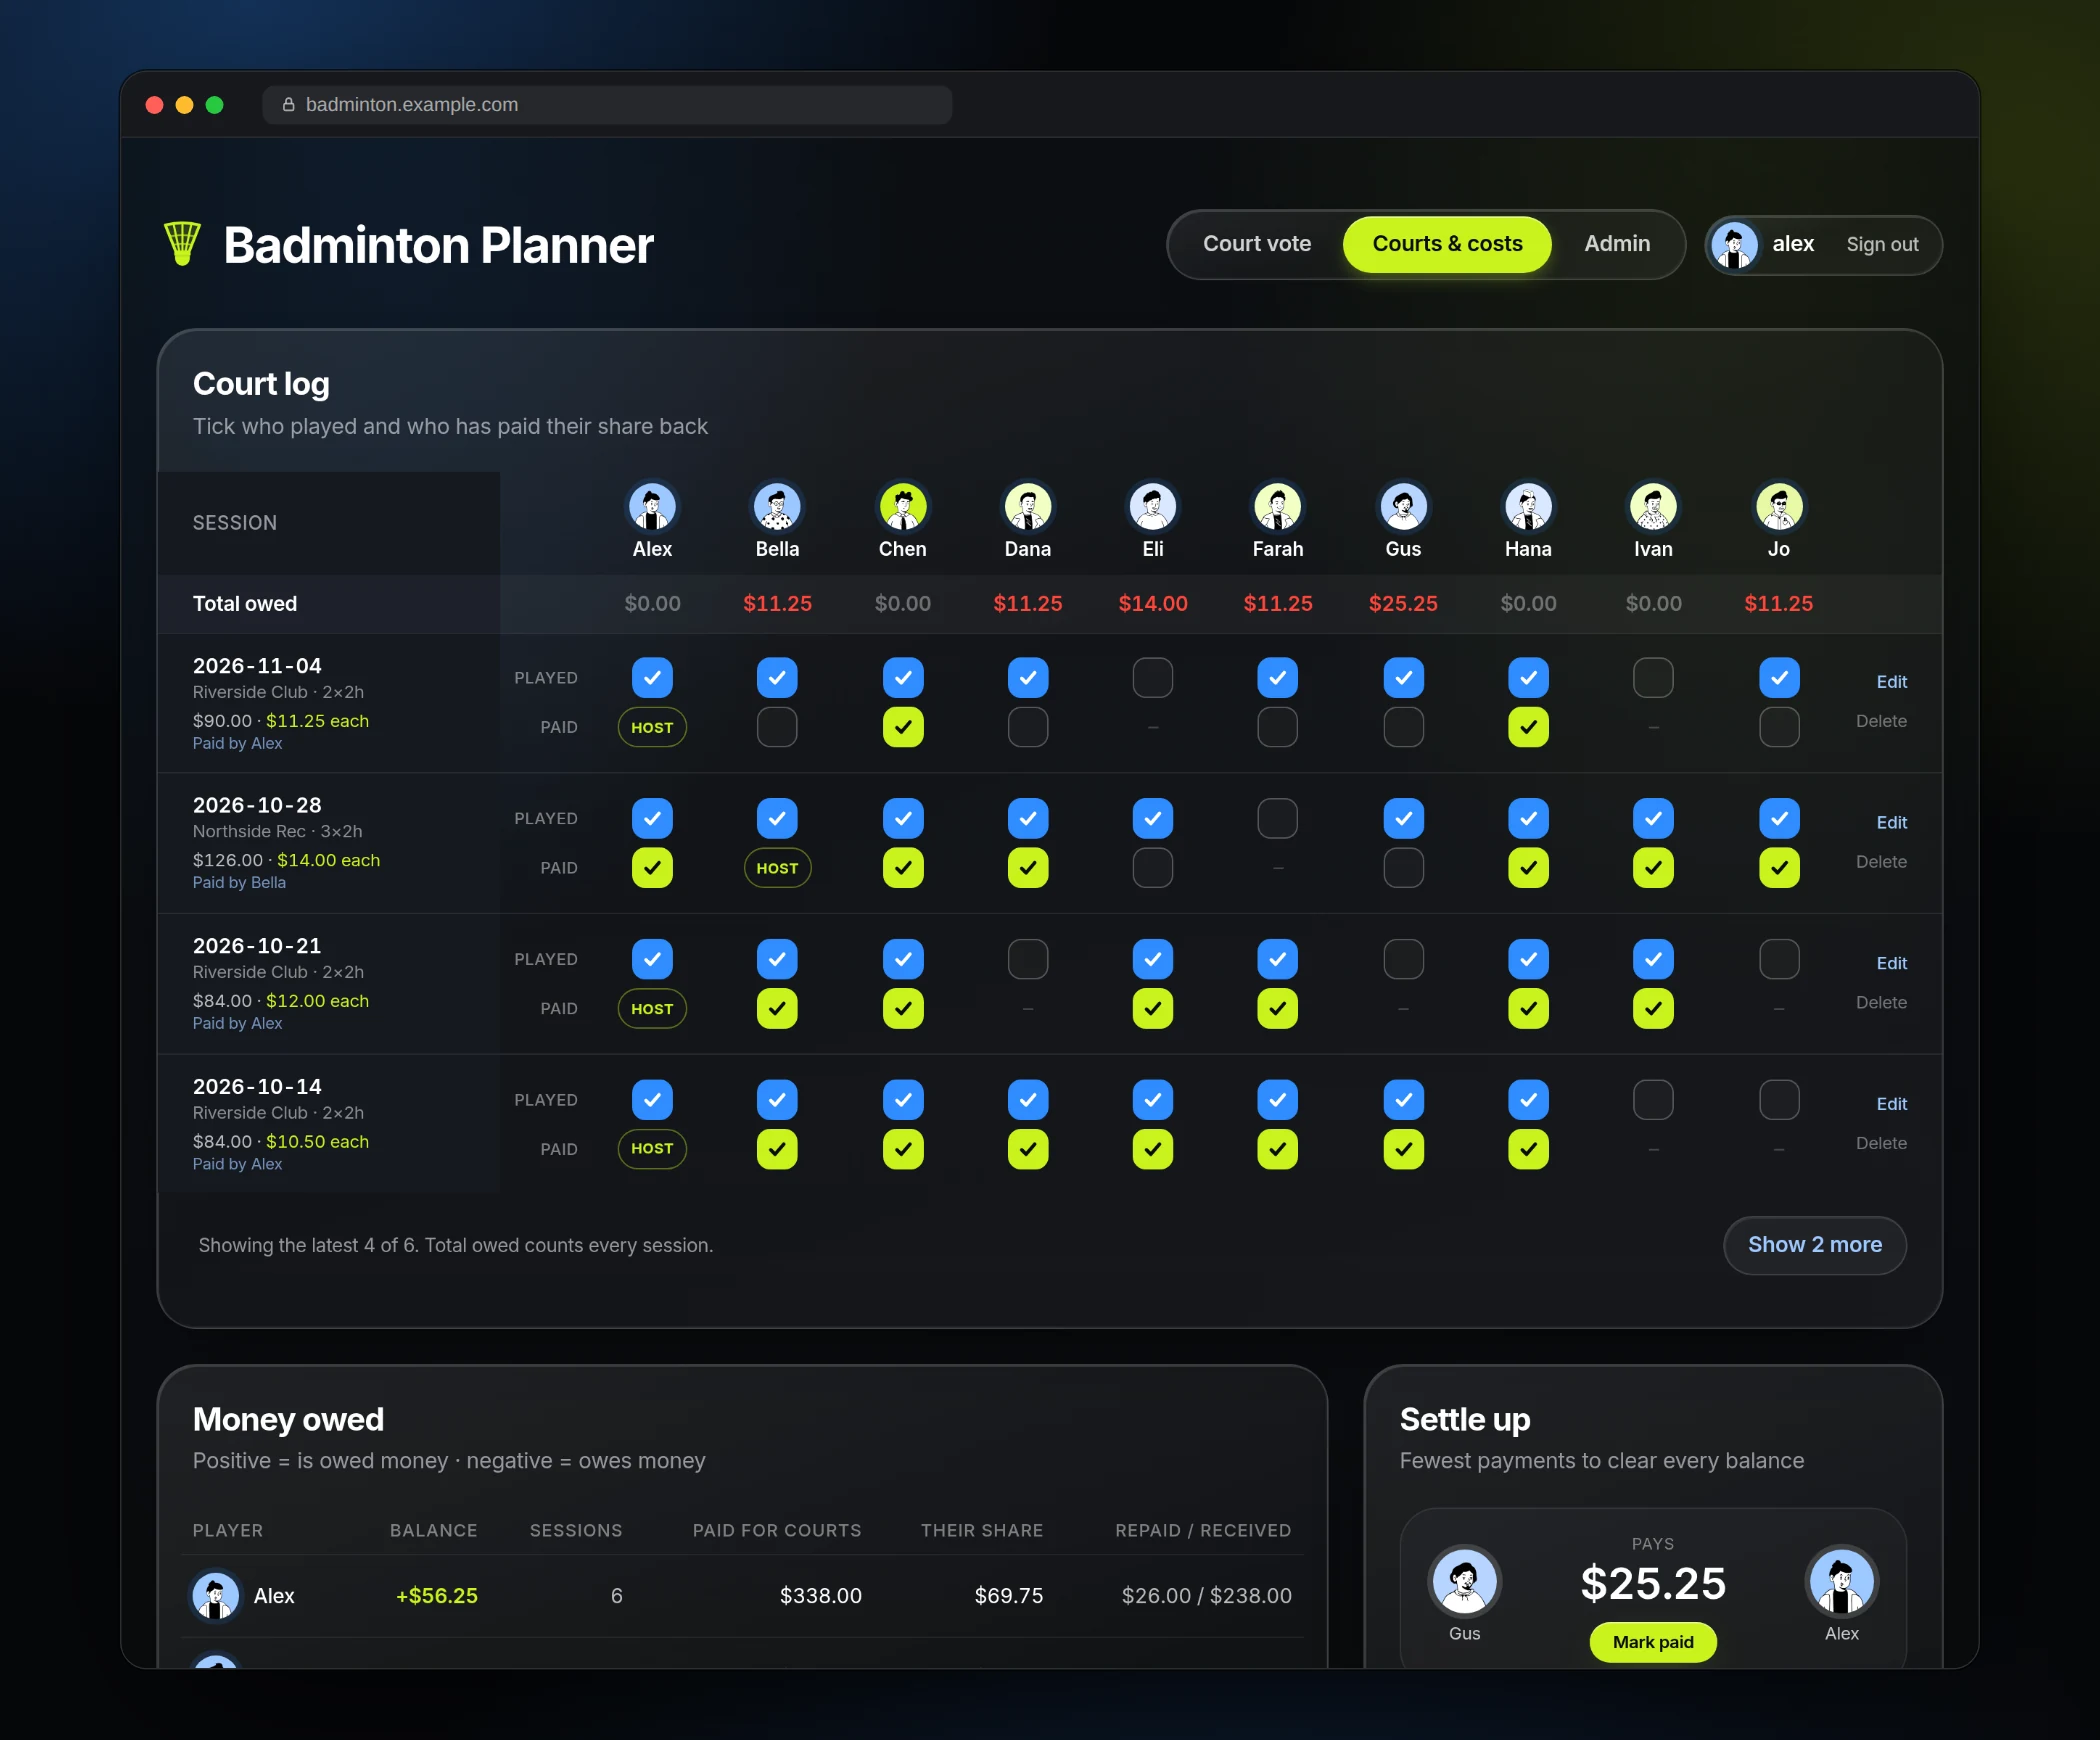
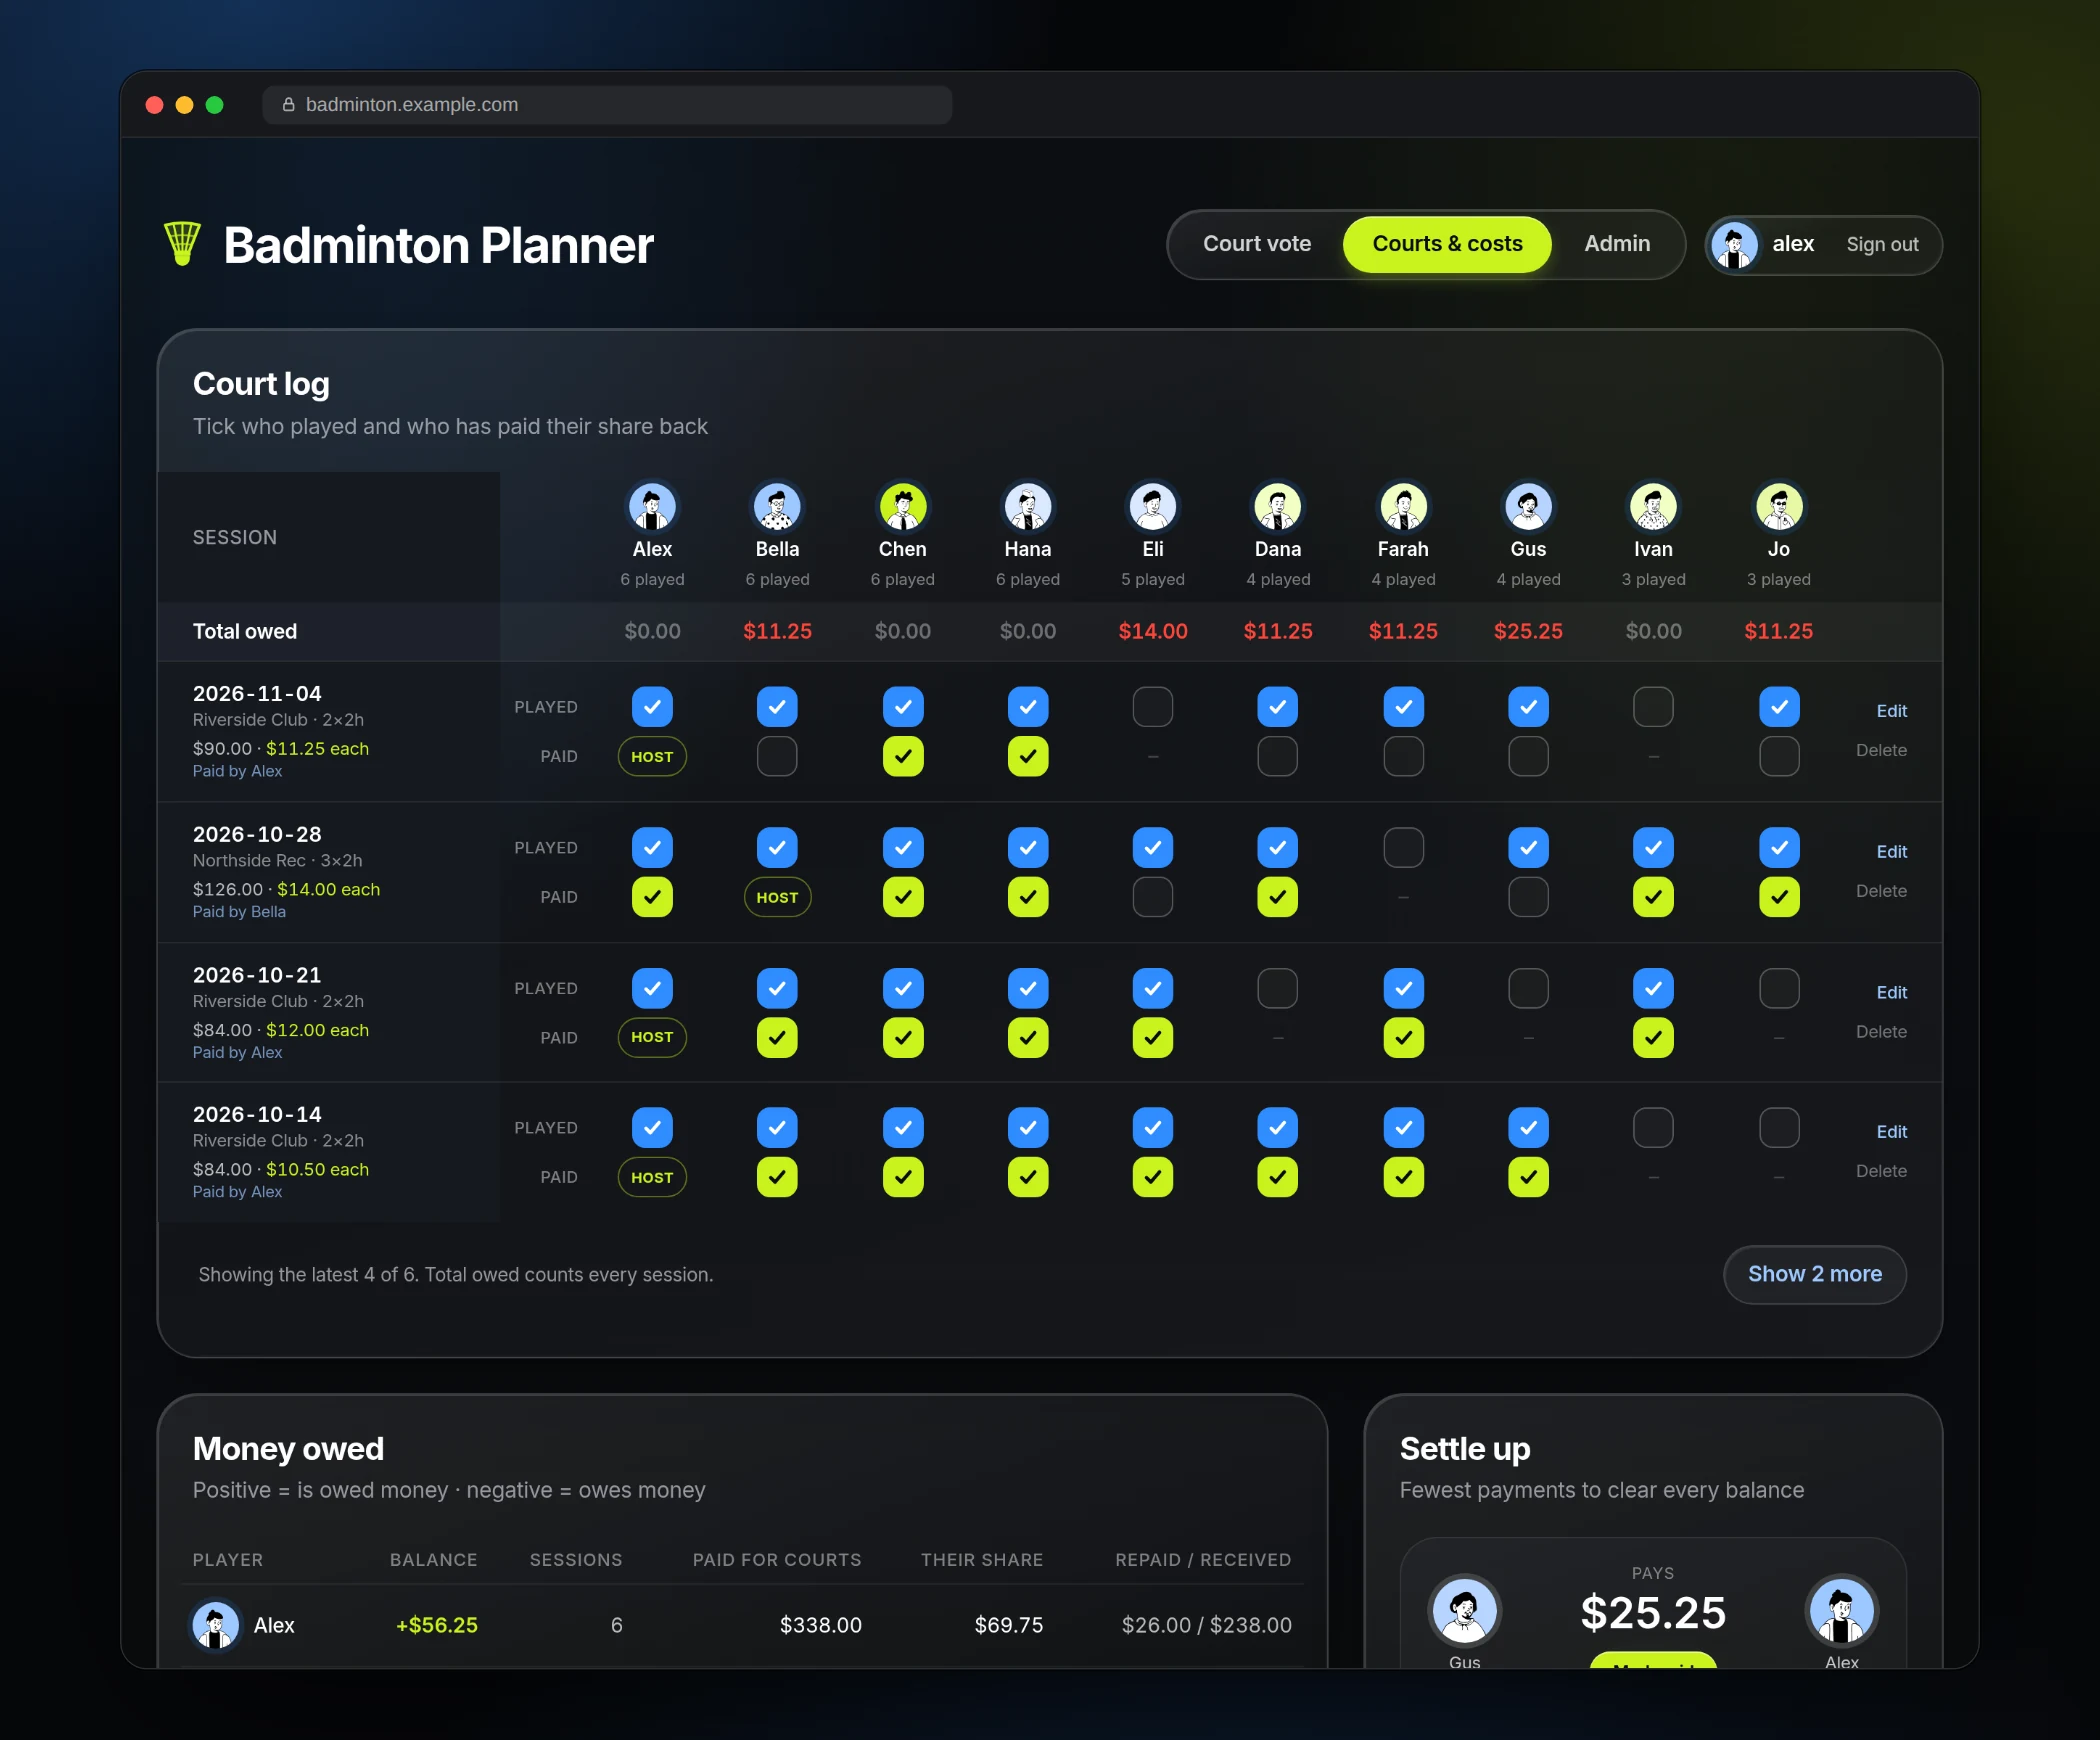
log order

diff --git a/components/AttendanceGrid.tsx b/components/AttendanceGrid.tsx
@@ -6,6 +6,16 @@ import { formatMoney, splitCost, type Player, type Session } from "@/lib/split";
 import { Avatar, Card, Empty, ErrorText } from "./ui";
 import { EditSessionDialog } from "./EditSessionDialog";
 
+/** Regulars first: most sessions played, then name. */
+function byAttendance(players: Player[], sessions: Session[]) {
+  const played = new Map<number, number>();
+  for (const s of sessions) for (const id of s.playerIds) played.set(id, (played.get(id) ?? 0) + 1);
+  const order = [...players]
+    .sort((a, b) => (played.get(b.id) ?? 0) - (played.get(a.id) ?? 0) || a.name.localeCompare(b.name))
+    .map((p) => p.id);
+  return { order, played };
+}
+
 /** How many sessions the court log shows before "Show more". */
 const RECENT = 4;
 
@@ -70,6 +80,14 @@ export function AttendanceGrid({
 }) {
   const [editing, setEditing] = useState<number | null>(null);
   const [showAll, setShowAll] = useState(false);
+
+  // Column order is fixed while you're on the page, so ticking a box never makes
+  // columns jump. It's recalculated when players change and on the next load.
+  const rosterKey = players.map((p) => p.id).join(",");
+  const [ranking, setRanking] = useState(() => ({ key: rosterKey, ...byAttendance(players, sessions) }));
+  if (ranking.key !== rosterKey) setRanking({ key: rosterKey, ...byAttendance(players, sessions) });
+  const byId = new Map(players.map((p) => [p.id, p]));
+  const columns = ranking.order.map((id) => byId.get(id)).filter((p): p is Player => !!p);
   const [optimistic, apply] = useOptimistic(sessions, applyChange);
   const [, startTransition] = useTransition();
   const [error, setError] = useState<string>();
@@ -112,11 +130,12 @@ export function AttendanceGrid({
                 <tr className="text-left text-[13px] uppercase tracking-wide text-[rgb(235_235_245/0.6)]">
                   <th className={`${sticky} min-w-[124px] py-2 pl-5 pr-2 font-medium sm:min-w-[150px] sm:pl-6 sm:pr-3 lg:min-w-[230px]`}>Session</th>
                   <th className="hidden px-2 py-2 font-medium sm:table-cell" />
-                  {players.map((p) => (
+                  {columns.map((p) => (
                     <th key={p.id} className="min-w-[60px] px-1 py-2 text-center lg:min-w-[84px] lg:px-2 font-semibold normal-case tracking-normal text-white">
                       <div className="flex flex-col items-center gap-1">
                         <Avatar name={p.name} size="sm" />
                         {p.name}
+                        <span className="text-[11px] font-normal text-white/45">{ranking.played.get(p.id) ?? 0} played</span>
                       </div>
                     </th>
                   ))}
@@ -125,7 +144,7 @@ export function AttendanceGrid({
                 <tr className="bg-white/[0.04]">
                   <td className={`${sticky} !bg-[rgb(29_33_42)] py-2.5 pl-5 pr-2 font-semibold sm:pl-6 sm:pr-3`}>Total owed</td>
                   <td className="hidden sm:table-cell" />
-                  {players.map((p) => {
+                  {columns.map((p) => {
                     const cents = owed.get(p.id) ?? 0;
                     return (
                       <td key={p.id} className={`px-1 py-2.5 text-center font-rounded lg:px-2 font-semibold tabular-nums ${cents ? "text-live" : "text-white/35"}`}>
@@ -153,7 +172,7 @@ export function AttendanceGrid({
                         <div>Played</div>
                         <div className="mt-1.5">Paid</div>
                       </td>
-                      {players.map((p) => {
+                      {columns.map((p) => {
                         const played = s.playerIds.includes(p.id);
                         const host = p.id === s.paidBy;
                         const paid = s.paidIds.includes(p.id);
